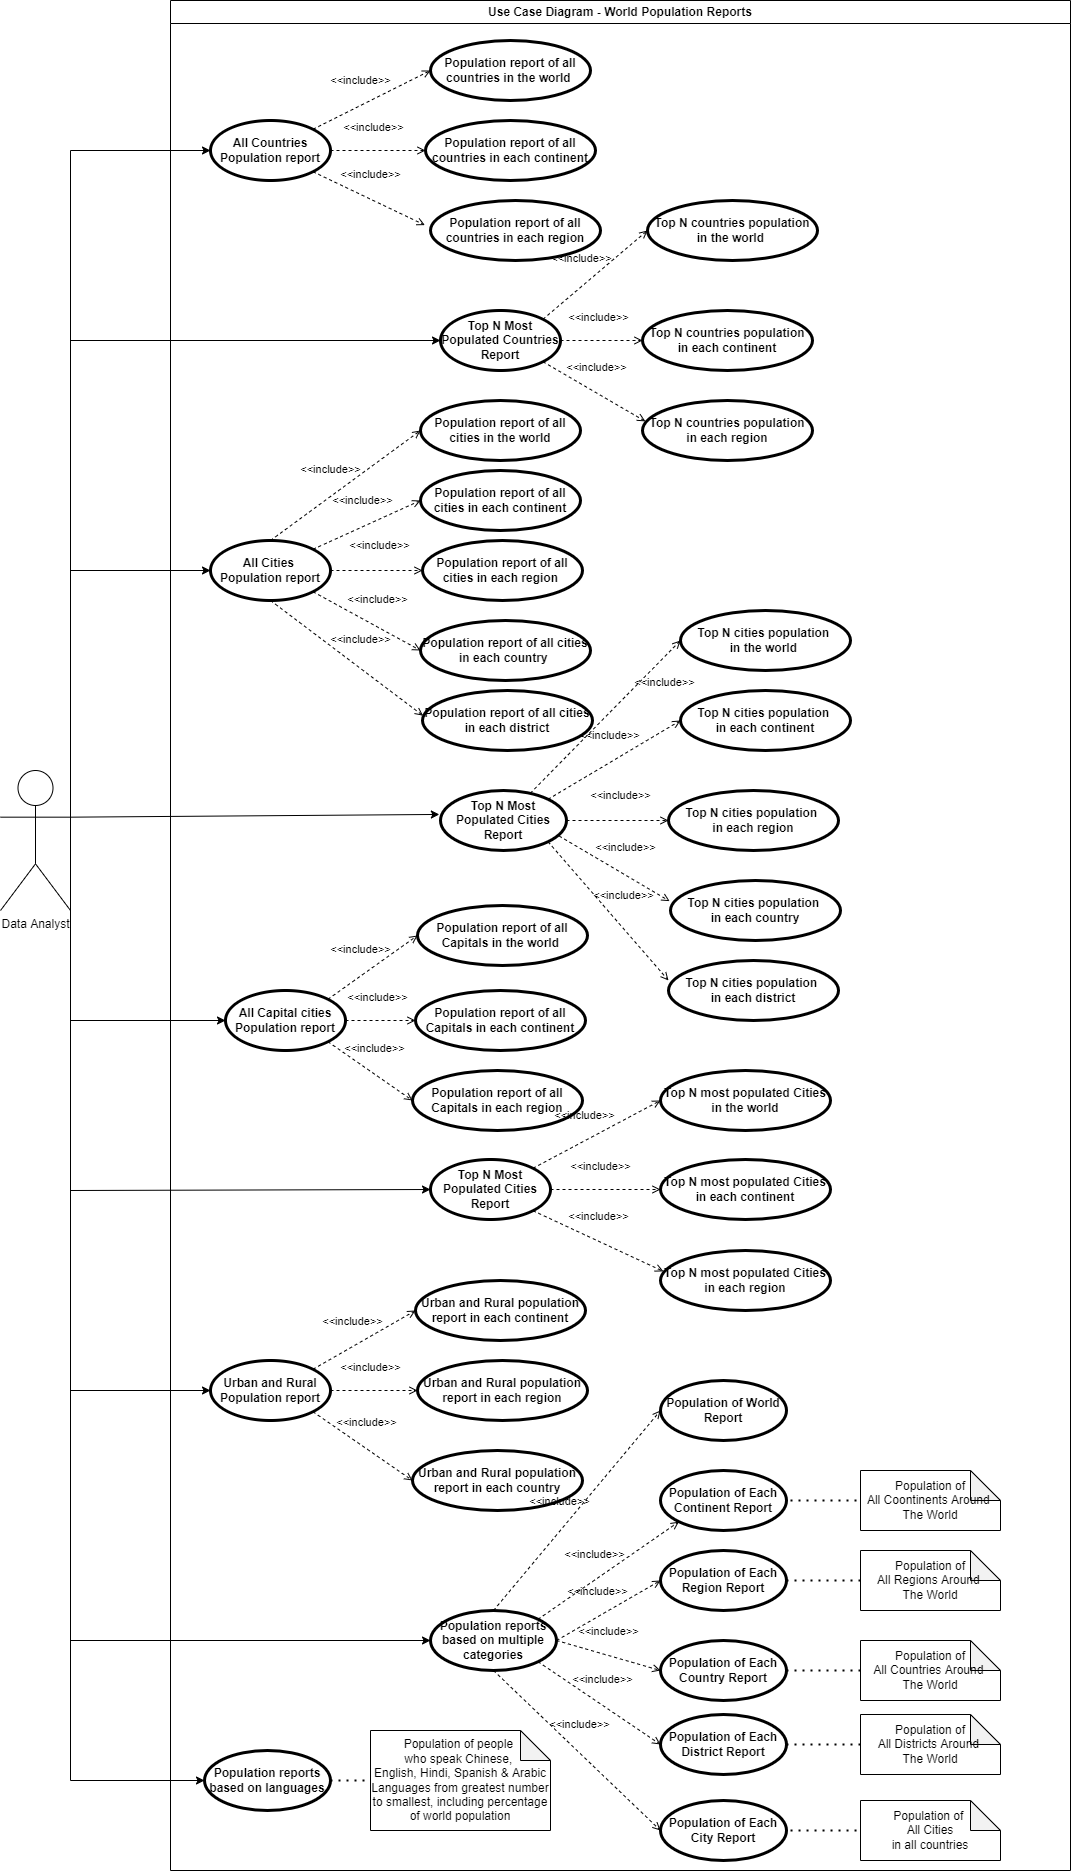
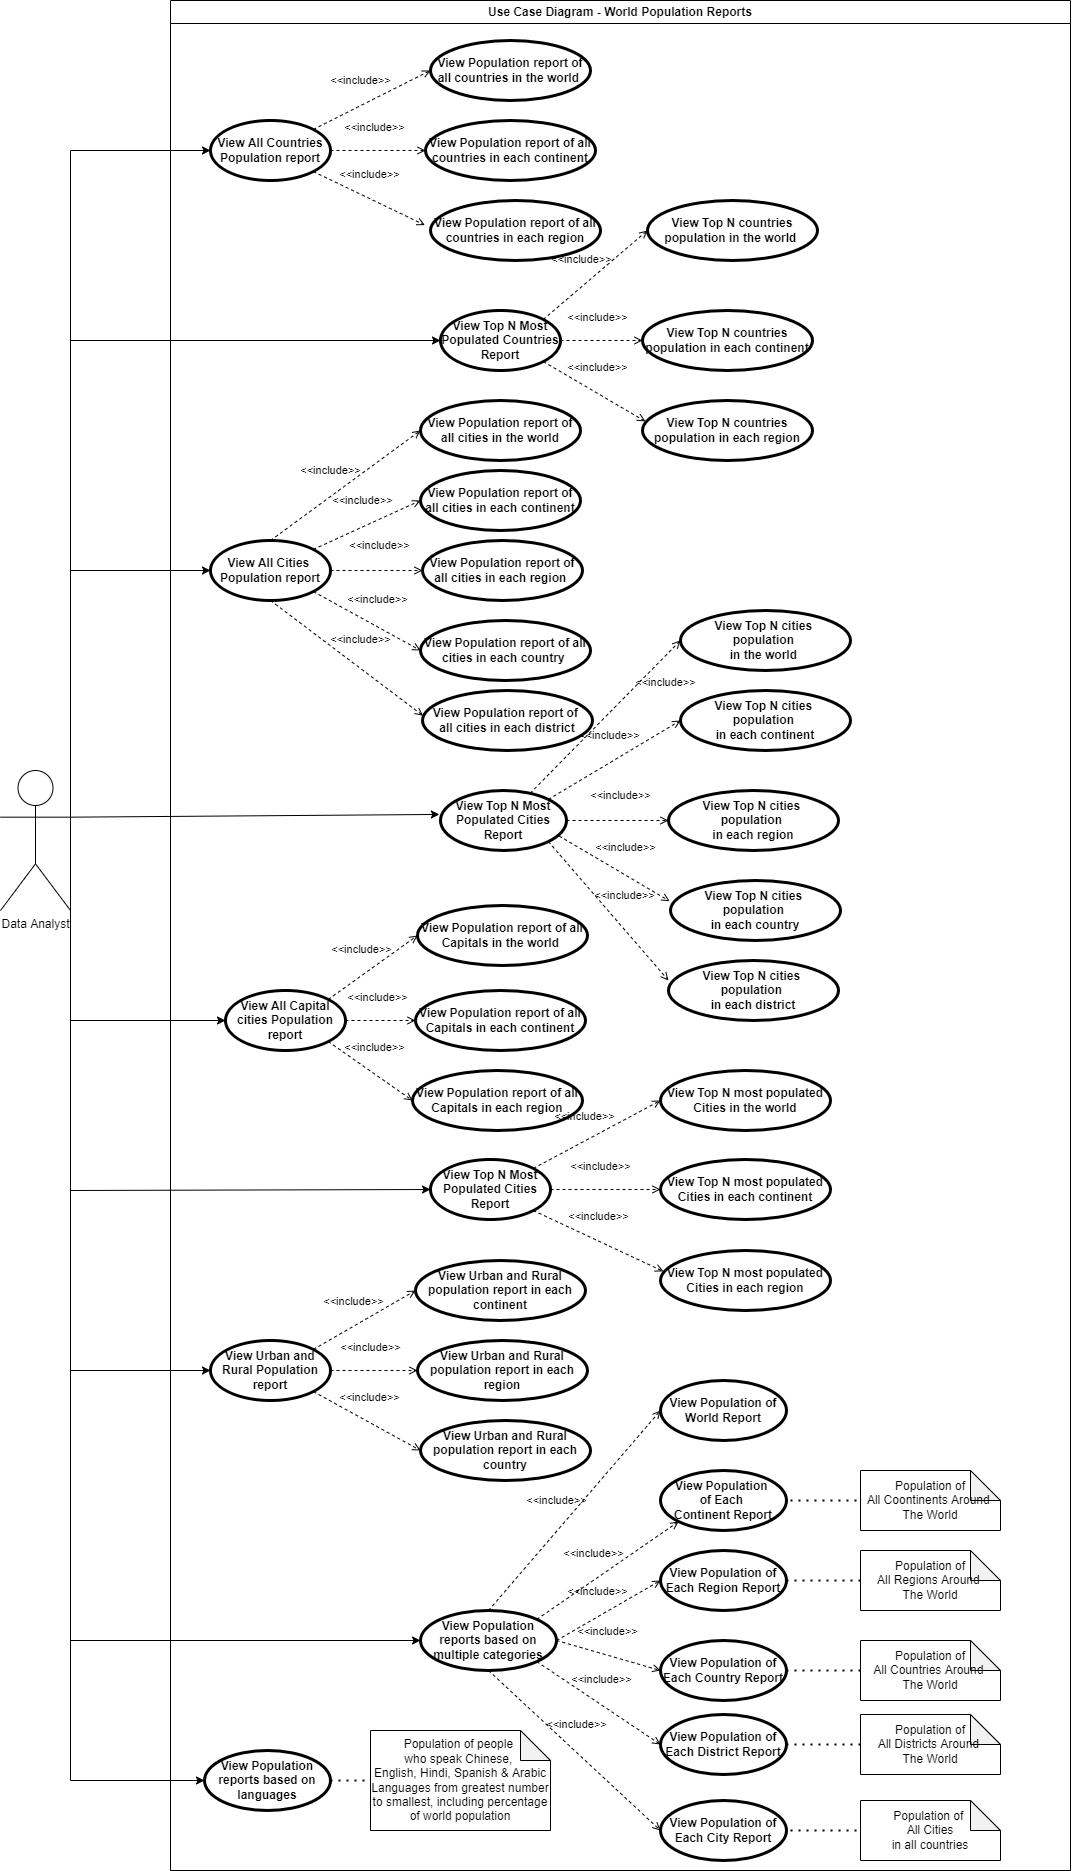
minor changes in Use_Case_Description.md and Use_Case_Diagram.png

diff --git a/Use_Case_Description.md b/Use_Case_Description.md
@@ -1309,7 +1309,7 @@ due date - 28th of July, 2023
 
 ===============================================================
 
-<h3>USE CASE 32: Population Report of People who speaks different languages</h3>
+<h3>USE CASE 32: Population Report Based on language</h3>
 <b>Goal in Context</b><br>
 As a data analyst, I want to see population of people who speak Chinese, English, Hindi, Spanish & Arabic Languages from greatest number to smallest, including the percentage of the world population so that I can compare the most used languages around the world.
 <b>Scope</b><br>
